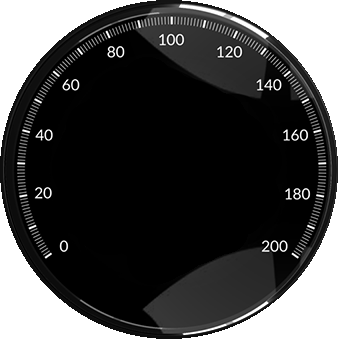
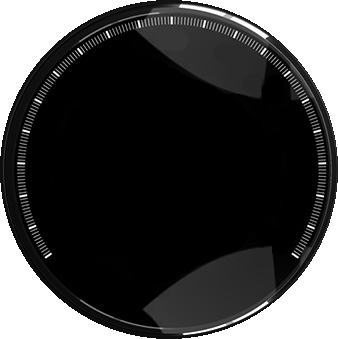
Update qtcluster
Adding numbers to speedometer in QML and animating them.

diff --git a/doc/src/snippets/qtcluster/qml/dash_hybrid/gauges/SpeedometerNumbers.qml b/doc/src/snippets/qtcluster/qml/dash_hybrid/gauges/SpeedometerNumbers.qml
@@ -1,0 +1,267 @@
+/****************************************************************************
+**
+** Copyright (C) 2015 The Qt Company Ltd.
+** Contact: http://www.qt.io/licensing/
+**
+** This file is part of the examples of the Qt Toolkit.
+**
+** $QT_BEGIN_LICENSE:BSD$
+** You may use this file under the terms of the BSD license as follows:
+**
+** "Redistribution and use in source and binary forms, with or without
+** modification, are permitted provided that the following conditions are
+** met:
+**   * Redistributions of source code must retain the above copyright
+**     notice, this list of conditions and the following disclaimer.
+**   * Redistributions in binary form must reproduce the above copyright
+**     notice, this list of conditions and the following disclaimer in
+**     the documentation and/or other materials provided with the
+**     distribution.
+**   * Neither the name of The Qt Company Ltd nor the names of its
+**     contributors may be used to endorse or promote products derived
+**     from this software without specific prior written permission.
+**
+**
+** THIS SOFTWARE IS PROVIDED BY THE COPYRIGHT HOLDERS AND CONTRIBUTORS
+** "AS IS" AND ANY EXPRESS OR IMPLIED WARRANTIES, INCLUDING, BUT NOT
+** LIMITED TO, THE IMPLIED WARRANTIES OF MERCHANTABILITY AND FITNESS FOR
+** A PARTICULAR PURPOSE ARE DISCLAIMED. IN NO EVENT SHALL THE COPYRIGHT
+** OWNER OR CONTRIBUTORS BE LIABLE FOR ANY DIRECT, INDIRECT, INCIDENTAL,
+** SPECIAL, EXEMPLARY, OR CONSEQUENTIAL DAMAGES (INCLUDING, BUT NOT
+** LIMITED TO, PROCUREMENT OF SUBSTITUTE GOODS OR SERVICES; LOSS OF USE,
+** DATA, OR PROFITS; OR BUSINESS INTERRUPTION) HOWEVER CAUSED AND ON ANY
+** THEORY OF LIABILITY, WHETHER IN CONTRACT, STRICT LIABILITY, OR TORT
+** (INCLUDING NEGLIGENCE OR OTHERWISE) ARISING IN ANY WAY OUT OF THE USE
+** OF THIS SOFTWARE, EVEN IF ADVISED OF THE POSSIBILITY OF SUCH DAMAGE."
+**
+** $QT_END_LICENSE$
+**
+****************************************************************************/
+
+import QtQuick 2.0
+
+Item {
+    id: root
+    width: 338
+    height: 338
+
+    property real value: 5
+    property real scaleFactor: 1.3
+
+    NumberLabel {
+        id: text_0
+        x: 64
+        y: 237
+    }
+
+    NumberLabel {
+        id: text_20
+        x: 39
+        y: 184
+        text: "20"
+    }
+
+    NumberLabel {
+        id: text_40
+        x: 40
+        y: 126
+        text: "40"
+    }
+
+    NumberLabel {
+        id: text_60
+        x: 67
+        y: 78
+        text: "60"
+    }
+
+    NumberLabel {
+        id: text_80
+        x: 112
+        y: 45
+        text: "80"
+    }
+
+    NumberLabel {
+        id: text_100
+        x: 158
+        y: 35
+        text: "100"
+    }
+
+    NumberLabel {
+        id: text_120
+        x: 211
+        y: 45
+        text: "120"
+    }
+
+    NumberLabel {
+        id: text_140
+        x: 250
+        y: 78
+        text: "140"
+    }
+
+    NumberLabel {
+        id: text_160
+        x: 277
+        y: 126
+        text: "160"
+    }
+
+    NumberLabel {
+        id: text_180
+        x: 279
+        y: 185
+        text: "180"
+    }
+
+    NumberLabel {
+        id: text_200
+        x: 256
+        y: 237
+        text: "200"
+    }
+
+    states: [
+        State {
+            name: "0"
+
+            when: root.value < 10
+
+            PropertyChanges {
+                target: text_0
+                color: "#0098c3"
+                scale: 1.2
+            }
+        },
+        State {
+            name: "20"
+
+            when: root.value > 10 && root.value < 30
+
+            PropertyChanges {
+                target: text_20
+                color: "#0098c3"
+                scale: root.scaleFactor
+            }
+        },
+        State {
+            name: "40"
+
+            when: root.value > 30 && root.value < 50
+
+            PropertyChanges {
+                target: text_40
+                color: "#0098c3"
+                scale: root.scaleFactor
+            }
+        },
+        State {
+            name: "60"
+
+            when: root.value > 50 && root.value < 70
+
+            PropertyChanges {
+                target: text_60
+                color: "#0098c3"
+                scale: root.scaleFactor
+            }
+        },
+        State {
+            name: "80"
+
+            when: root.value > 70 && root.value < 90
+
+            PropertyChanges {
+                target: text_80
+                color: "#0098c3"
+                scale: root.scaleFactor
+            }
+        },
+        State {
+            name: "100"
+
+            when: root.value > 90 && root.value < 110
+
+            PropertyChanges {
+                target: text_100
+                color: "#a31e21"
+                scale: root.scaleFactor
+            }
+        },
+        State {
+            name: "120"
+
+            when: root.value > 110 && root.value < 130
+
+            PropertyChanges {
+                target: text_120
+                color: "#a31e21"
+                scale: root.scaleFactor
+            }
+        },
+        State {
+            name: "140"
+
+            when: root.value > 130 && root.value < 150
+
+            PropertyChanges {
+                target: text_140
+                color: "#a31e21"
+                scale: root.scaleFactor
+            }
+        },
+        State {
+            name: "160"
+
+            when: root.value > 150 && root.value < 170
+
+            PropertyChanges {
+                target: text_160
+                color: "#a31e21"
+                scale: root.scaleFactor
+            }
+        },
+        State {
+            name: "180"
+
+            when: root.value > 170 && root.value < 190
+
+            PropertyChanges {
+                target: text_180
+                color: "#a31e21"
+                scale: root.scaleFactor
+            }
+        },
+        State {
+            name: "200"
+
+            when: root.value > 190
+
+            PropertyChanges {
+                target: text_200
+                color: "#a31e21"
+                scale: root.scaleFactor
+            }
+        }
+    ]
+
+    transitions: Transition {
+        from: "*"
+        to: "*"
+
+        ParallelAnimation {
+            NumberAnimation {
+                properties: "scale"
+                duration: 400
+            }
+
+            ColorAnimation {
+                properties: "color"
+                duration: 400
+            }
+       }
+    }
+}

diff --git a/doc/src/snippets/qtcluster/qml/dash_hybrid/DashboardForm.ui.qml b/doc/src/snippets/qtcluster/qml/dash_hybrid/DashboardForm.ui.qml
@@ -65,6 +65,7 @@ DashboardBackground {
     anchors.fill: parent
 
     // Fuelmeter
+
     SmallMeter {
         id: fuelMeter
         x: 432
@@ -74,6 +75,7 @@ DashboardBackground {
     }
 
     // Batterymeter
+
     SmallMeter {
         id: batteryMeter
         x: 433
@@ -90,14 +92,17 @@ DashboardBackground {
     }
 
     // Consumptionmeter
+
     ConsumptionMeter {
         opacity: dashboardEntity.meterOpacity
     }
     // Temperaturemeter
+
     TemperatureMeter {
         opacity: dashboardEntity.meterOpacity
     }
     // Turbometer
+
     SmallMeter {
         id: smallMeter
         x: 741
@@ -114,14 +119,24 @@ DashboardBackground {
     }
 
     // Fpsmeter
+
     FpsMeter {
         opacity: dashboardEntity.meterOpacity
     }
 
     // Bottom Panel
+
     BottomPanel {
         id: bottompanel
         y: 402
+    }
+
+    SpeedometerNumbers {
+        id: speedometerNumbers
+        x: 103
+        y: 73
+        value: speedometer.actualValue
+        opacity: dashboardEntity.meterOpacity
     }
 
     LargeMeter {
@@ -176,4 +191,5 @@ DashboardBackground {
         color: tachometer.actualValue <= 4000 ? "white" : "red"
         opacity: dashboardEntity.meterOpacity
     }
+
 }

diff --git a/doc/src/snippets/qtcluster/qml/dash_hybrid/gauges/NumberLabel.qml b/doc/src/snippets/qtcluster/qml/dash_hybrid/gauges/NumberLabel.qml
@@ -1,0 +1,9 @@
+import QtQuick 2.0
+
+Text {
+    id: text_0
+    color: "#c6c6c6"
+    text: "0"
+    font.family: "Verdana"
+    font.pixelSize: 14
+}
